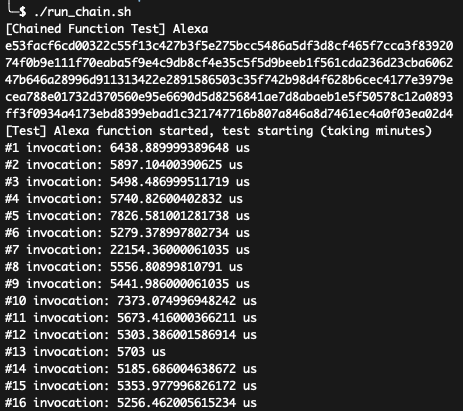
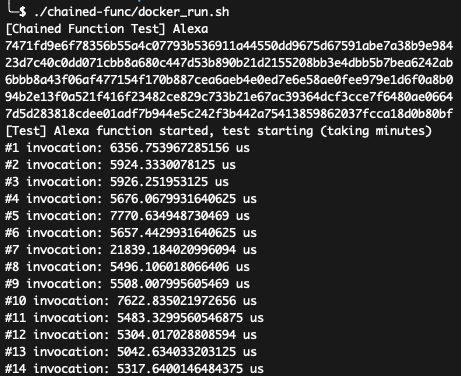
update benchmark scripts

diff --git a/README.md b/README.md
@@ -103,8 +103,10 @@ In the molecule-artifact dir:
 
 3. Run the demo
 
+Now you are ready to run the demos (vector multiplex example):
+
 	cd molecule-benchmarks/fpga-apps
-	# Taking upto minutes
+	## Taking upto minutes
 	./run_demo.sh
 
 You shall see the results like:
@@ -123,9 +125,9 @@ Besides, we also explain detail steps on evaluate each techniques
 These steps are optional but can help reviewers/readers to identify
 the major improvement of Molecule.
 
-### 3.1 Benchmarks and Applications
+### (1) Benchmarks and Applications
 
-**To reproduce functionbench results (Fig-14 a,b,c)**:
+#### To reproduce Functionbench results (Fig-14 a,b,c):
 
 	cd molecule-benchmarks/function-bench
 	./func_bench.sh
@@ -146,26 +148,22 @@ The results match the data in the Figure-14.
 Please ensure you have built runc before (in runc/).
 
 
-**Chained Applications: Alexa**
+#### Chained Applications: Alexa
 
 Commands:
 
-	cd molecule-js-env && git checkout hetero_ipc
-	cd src/tests/ipc/chain/
+	# enter to the molecule-benchmarks dir
+	cd ./molecule-benchmarks
+	# Build runtime and functions
+	./chained-func/docker_build.sh
 	# This script will run Alexa chained applications
-	./run_chain.sh
+	./chained-func/docker_run.sh
 
 You shall see the results like:
 
-
 <img alt="Chained applications: Alexa" src="./docs/chained-app-alexa.png" width="512">
 
-**Chained Applications: Mapper-Reducer**
-
-Follow the instructions in pychain/README.md.
-
-
-**To reproduce FPGA benchmark results (Fig-14 e,f,g)**:
+#### To reproduce FPGA benchmark results (Fig-14 e,f,g):
 
 	cd molecule-benchmarks/fpga-apps
 	./run_bench.sh
@@ -174,10 +172,15 @@ You shall see the results like:
 
 <img alt="FPGA benchmarks" src="./docs/FPGA-benchmarks.png" width="512">
 
-
 The above fig shows the results of GZIP latency for FPGA and CPU, which totally match the result of Fig-14 (e).
 
-### 3.2 cFork on single-PU (e.g., CPU or DPU)
+If you have successfully run the above experiments and get the expected results,
+congradulation! you have done most of the work!
+
+In the following, we will explain the detailed instructions to run each microbenchmarks.
+All test cases are self-contained, that means you can directly select and run the cases that you are interested!
+
+### (2) cFork (for CPU or DPU)
 
 This section shows how to reproduce results in Figure-10 (a) and (b).
 
@@ -227,7 +230,7 @@ You shall see the results like:
 
 <img alt="cfork on single-PU" src="./docs/cfork-singlePU.png" width="512">
 
-### 3.3 IPC-based DAG on single-PU (e.g., CPU or DPU)
+### (3) IPC-based DAG (for CPU or DPU)
 
 We prepare scripts to run chained serverless functions and generate the
 communication latency, as the Figure-12 in the paper.
@@ -249,10 +252,16 @@ can achieve significant lower latency (about 100--500us in most cases)
 compared with baseline.
 
 
-### 3.4 cFork on cross-PU (e.g., CPU-CPU or CPU-DPU)
+### (4) cFork using neighborIPC
+
+The below instructions assum you do not have a DPU, so we will do the cFork on
+the single CPU node.
+However, unlike the above case, we will start an XPU-shim, which provides the
+neighborIPC interfaces for the cFork to use.
+The same case can be transparently run on a CPU-DPU setting, in which case you should
+start two XPU-shim and assigning them different IDs.
 
 In this case, we will rely on neighborIPC provided by XPU-shim to fork on an instance.
-
 
 Build and run XPU-shim:
 
@@ -298,10 +307,14 @@ costs as shown in the breakdown in the above figure.
 We provide the patch in TODO_DIR, and users can feel free to apply and test the patch
 if they would.
 
-### 3.5 IPC-based DAG on cross-PU (e.g., CPU-CPU or CPU-DPU)
+### (5) IPC-based DAG using neighborIPC
 
-The steps are similiar to 4.2 o evaluate DAG performance on cross-PU.
-The major change is to prepare a XPU-shim in advance before running benchmarks.
+The below instructions assum you do not have a DPU, so we will do the DAG communication
+on the single CPU node.
+However, unlike the above case, we will start an XPU-shim, which provides the
+neighborIPC interfaces for the IPC-based DAG to use.
+The same case can be transparently run on a CPU-DPU setting, in which case you should
+start two XPU-shim and assigning them different IDs.
 
 Build and run XPU-shim:
 
@@ -326,7 +339,7 @@ This confirms the claims in the paper that XPU-shim's neighbor IPC
 can help functions on different PU to achieve low communication latency
 (about 150--600us in most cases).
 
-### 3.6 FPGA function startup breakdown
+### (6) FPGA function startup breakdown
 
 This section shows how to reproduce results in Figure-10 (c).
 
@@ -353,3 +366,21 @@ Specifically:
 * in the third case, the total latency is 1.9s, which matches the 3rd bar in Figure-10(c);
 * in the fourth case, the total latency is 46ms, which matches the 4th bar in Figure-10(c).
 
+### (7) Other test cases
+
+#### Chained Applications: Mapper-Reducer
+
+Follow the instructions in pychain/README.md.
+
+
+## Acknowledgements
+
+We thank all of our reviewer, AE reviewers for their insightful comments!
+
+* If you thought the artifact is well-organized, functional, and easy-to-reproduce,
+consider champain the AE as the Distinguished Artifact, thanks in advance.
+* If you thought there are still many things to improve,
+please (anonymously) give the feedbacks through hotCRP.
+
+We are open and welcome developers and researchers to help us to
+improve the project.
